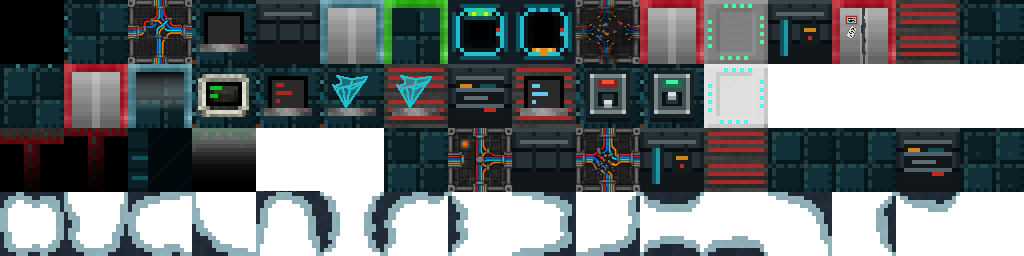
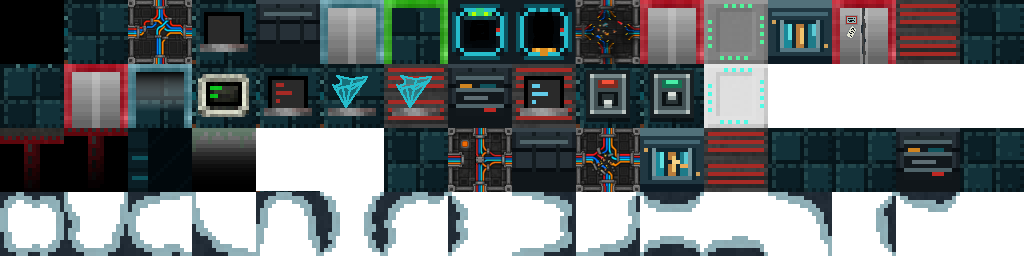
Refresh station visuals and rename late-game areas

Changed region(s): [[0.75, 0.0, 0.8125, 0.2188], [0.625, 0.5, 0.6875, 0.7188]]

diff --git a/core/src/main/java/com/wafitz/pixelspacebase/levels/MaintenanceLevel.java b/core/src/main/java/com/wafitz/pixelspacebase/levels/MaintenanceLevel.java
@@ -49,6 +49,7 @@ import com.wafitz.pixelspacebase.messages.Messages;
 import com.wafitz.pixelspacebase.scenes.GameScene;
 import com.watabou.noosa.Game;
 import com.watabou.noosa.Group;
+import com.watabou.noosa.ColorBlock;
 import com.watabou.noosa.particles.Emitter;
 import com.watabou.noosa.particles.PixelParticle;
 import com.watabou.utils.Bundle;
@@ -286,9 +287,61 @@ public class MaintenanceLevel extends RegularLevel {
     static void addSewerVisuals(Level level, Group group) {
         for (int i = 0; i < level.length(); i++) {
             if (level.map[i] == Terrain.WALL_DECO) {
-                // wafitz.v4: Lights don't leak!
-                //group.add(new Sink(i));
+                group.add(new MaintenanceLamp(level, i));
             }
+        }
+    }
+
+    private static class MaintenanceLamp extends Group {
+
+        private final Level level;
+        private final int pos;
+        private final ColorBlock left;
+        private final ColorBlock right;
+        private float phase;
+        private float nextFlicker;
+        private float flickerLeft;
+
+        MaintenanceLamp(Level level, int pos) {
+            this.level = level;
+            this.pos = pos;
+            phase = pos * 0.73f;
+            nextFlicker = Random.Float(1.5f, 4.5f);
+
+            PointF p = SpacebaseTilemap.tileToWorld(pos);
+            left = new ColorBlock(2.5f, 3f, 0xFFD5F7FF);
+            left.x = p.x + 4f;
+            left.y = p.y + 5f;
+            add(left);
+
+            right = new ColorBlock(2.5f, 3f, 0xFFD5F7FF);
+            right.x = p.x + 10f;
+            right.y = p.y + 5f;
+            add(right);
+        }
+
+        @Override
+        public void update() {
+            if (level.map[pos] != Terrain.WALL_DECO) {
+                killAndErase();
+                return;
+            }
+            visible = SpacebaseRun.visible[pos];
+            if (!visible) return;
+
+            super.update();
+            phase += Game.elapsed;
+            if (flickerLeft > 0) {
+                flickerLeft -= Game.elapsed;
+            } else if ((nextFlicker -= Game.elapsed) <= 0) {
+                flickerLeft = Random.Float(0.08f, 0.2f);
+                nextFlicker = Random.Float(2.5f, 6f);
+            }
+
+            float glow = flickerLeft > 0 ? 0.12f :
+                    0.38f + 0.08f * (float) Math.sin(phase * 2.2f);
+            left.am = glow;
+            right.am = glow * 0.9f;
         }
     }
 

diff --git a/core/src/main/java/com/wafitz/pixelspacebase/sprites/ItemSpriteSheet.java b/core/src/main/java/com/wafitz/pixelspacebase/sprites/ItemSpriteSheet.java
@@ -71,7 +71,7 @@ public class ItemSpriteSheet {
     public static final int GOLDEN_KEYCARD = SINGLE_USE + 10;
     public static final int SECURITY_KEYCARD = SINGLE_USE + 11;
     public static final int MASTERY = SINGLE_USE + 12;
-    public static final int KIT = SINGLE_USE + 13;
+    public static final int ARMOR_KIT = SINGLE_USE + 13;
     public static final int ESCAPE_POD_OVERRIDE = SINGLE_USE + 14;
 
     //32 free slots

diff --git a/core/src/main/java/com/wafitz/pixelspacebase/items/ArmorKit.java b/core/src/main/java/com/wafitz/pixelspacebase/items/ArmorKit.java
@@ -44,7 +44,7 @@ public class ArmorKit extends Item {
     private static final String AC_APPLY = "APPLY";
 
     {
-        image = ItemSpriteSheet.KIT;
+        image = ItemSpriteSheet.ARMOR_KIT;
 
         unique = true;
     }

diff --git a/docs/STORY_BEATS.md b/docs/STORY_BEATS.md
@@ -117,9 +117,9 @@ Open story need:
 
 - Decide why this unit treats the player as unauthorized despite their class identity.
 
-### Floors 16-19: Habitation and Command Sector
+### Floors 16-19: Habitation Ring
 
-Current chapter text, terminal copy, and terrain descriptions now frame this area as the Habitation and Command Sector: crew quarters, civic decks, command offices, and simulation suites overrun by old command systems, rogue holograms, raiders, and defense machines.
+Current chapter text, terminal copy, and terrain descriptions frame this area as the Habitation Ring: crew quarters, civic decks, offices, and simulation suites overrun by rogue holograms, raiders, and defense machines.
 
 Primary story function:
 
@@ -156,9 +156,9 @@ Story function:
 
 - Signal that the player is leaving salvageable station space and entering the deepest contaminated zone.
 
-### Floors 22-24: Deep Containment
+### Floors 22-24: Command
 
-Current chapter text and tile descriptions now frame this area as Deep Containment: sealed experiments, alien growths, containment fluid, and breach hardware above the mapped station.
+The final three regular decks are Command: damaged control systems, sealed experiments, alien growths, and breach hardware above the mapped station. Their coolant and fire artwork are temporary until the Command hazard treatment is decided.
 
 Primary story function:
 
@@ -278,7 +278,7 @@ Story role:
 
 ## Current Continuity Gaps
 
-- Security Block, Lower Engineering, Habitation/Command, and Deep Containment chapter text now use sci-fi framing; individual tiles, enemies, and boss lore in those areas still need follow-up conversion.
+- Security Block, Lower Engineering, Habitation Ring, and Command chapter text use sci-fi framing; individual tiles, enemies, and boss lore in those areas still need follow-up conversion.
 - The Escape Pod Override item now owns the end artifact role, but surrounding flow may still need cleanup if inherited Yendor assumptions surface.
 - Yendor remains a raider faction and may still appear in inherited story/item names outside the updated end artifact text.
 - DM-300 is the unstable floor-15 boss machine; DM-3000 is the playable robot class brought back into service after that encounter.
@@ -292,5 +292,5 @@ Use the existing mechanics as the skeleton:
 2. Security reveals that command knew a containment breach was inevitable.
 3. Lower engineering reveals the breach is tied to old station experiments and surviving engineers.
 4. Command/habitation reveals historical corruption, Yendor involvement, or a failed ruling/AI faction.
-5. Deep containment reveals the Containment Mass or the final anomaly as the root cause.
+5. Command reveals the Containment Mass or the final anomaly as the root cause.
 6. The finale uses the end artifact to either reclaim the station, seal the breach, or escape with proof of what happened.

diff --git a/docs/TILE_MAP_REFERENCE.md b/docs/TILE_MAP_REFERENCE.md
@@ -46,8 +46,8 @@ For a visual grid with frame numbers and labels, see [TILE_SHEET_LAYOUT.md](TILE
 | Maintenance / Operations | Water is maintenance coolant. Decorative floors are dark stains and scrape marks. Shelves are technical binders and maintenance logs. |
 | Security Block | Water is security runoff from detention washdown systems. Decorative floors have old blood and scuffed drag marks. Shelves are security binders, intake records, and confiscation logs. |
 | Lower Engineering | Tiles use a colder steel/teal palette with amber service markings. Floor lighting can still appear as fluorescent conduit growth. Off floor lighting becomes dormant conduit growth. Water is freezing coolant. Wall deco can be ore/parts. |
-| Habitation / Command Sector | Water is recycled civic fountain water. Off floor lighting becomes dormant atrium planters. Special floor is command-suite carpet. Statues depict old war bots and training-sim figures. |
-| Deep Containment | Water is containment fluid. Floor lighting can appear as bioluminescent growth. Off floor lighting becomes dormant spore columns. Statues become sealed specimen pillars. |
+| Habitation Ring | Water is recycled civic fountain water. Off floor lighting becomes dormant atrium planters. Special floor is command-suite carpet. Statues depict old war bots and training-sim figures. |
+| Command | Water currently uses the containment-fluid treatment. Floor lighting can appear as bioluminescent growth. Off floor lighting becomes dormant spore columns. Statues become sealed specimen pillars. The lava/fire treatment is awaiting a separate decision. |
 
 ## Generic ASCII Tile Legend
 

diff --git a/PLAN.md b/PLAN.md
@@ -37,11 +37,15 @@ Use this as the working backlog for the next sprint. Put rough ideas in Suggesti
 ## Cosmetic / Narrative
 
 - [x] Chasms/black should have a subtle starry background, with potentially a planet and nearby star.
-- [ ] Fire sprites on walls should be replaced with electrical fizzes.
+- [x] Give Maintenance wall lamps a subtle flicker.
+- [x] Refresh Engineering's salvageable wall panels.
+- [x] Upgrade the Habitation Ring terrain tileset.
+- [x] Name the later area Command in documentation and player-facing chapter copy.
+- [ ] Decide on Command's lava and fire-particle replacement.
 - [ ] Have a 'now playing' for music.
 - [x] Challenges Icon update
 - [ ] Custom skin tiles
-- [ ] Armor Kit needs icon sci-fi upgrade
+- [x] Armor Kit needs icon sci-fi upgrade
 - [ ] What could replace Yog Duza? Maybe a giant angel.
 - [x] Rename of icon files
 - [ ] Fix swarm sprite - crap

diff --git a/docs/NAMING_AUDIT.md b/docs/NAMING_AUDIT.md
@@ -27,7 +27,7 @@ These are low-risk because they are mostly resource strings, docs, or small alia
 - Journal feature labels that still mention inherited NPC names.
 - Entity catalogue entries that no longer match current mechanics.
 - Message comments with stale TODO wording, once the actual behavior has moved on.
-- Player-facing area names in docs: prefer Security Block, Lower Engineering, Habitation/Command, Deep Containment, and Evacuation Cradle.
+- Player-facing area names in docs: prefer Security Block, Lower Engineering, Habitation Ring, Command, and Evacuation Cradle. The `DeepContainment*Level` class names and message keys remain internal save-compatible identifiers.
 
 ## Higher-Risk Refactor Targets
 

diff --git a/docs/TILE_SHEET_LAYOUT.md b/docs/TILE_SHEET_LAYOUT.md
@@ -9,8 +9,8 @@ The image is generated from the canonical Maintenance / Operations sheet, `core/
 - `tiles0.png` - Maintenance / Operations
 - `tiles1.png` - Security Block
 - `tiles2.png` - Lower Engineering
-- `tiles3.png` - Habitation / Command Sector
-- `tiles4.png` - Deep Containment
+- `tiles3.png` - Habitation Ring
+- `tiles4.png` - Command
 
 ## Important Notes
 
